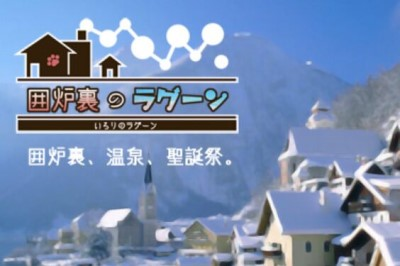
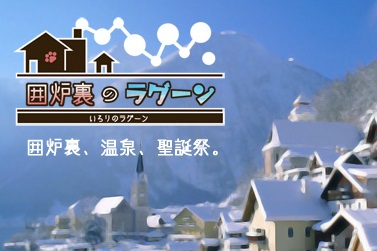
更新资源

diff --git a/zh-cn/authors/Oodaru.html b/zh-cn/authors/Oodaru.html
@@ -101,7 +101,7 @@
                     <p>村で空午を待っていたのは、『毒の泉』 の身もふたもない噂と、情欲を促す刺激的な毎日だった。</p>
                 </section>
                 <picture>
-                    <img src="../../resources/assets/Lagoon_Lounge/thumbnail.jpg" alt="" width="280" height="210" style="object-position: top" />
+                    <img src="../../resources/assets/Lagoon_Lounge/thumbnail.jpg" alt="" width="280" height="210" />
                 </picture>
             </article>
             <hr />
@@ -115,7 +115,7 @@
                     <p>身元を明かそうとしないライオンを康しお空午は、村の外れの小さな家で、思いもよらないトラブルに巻き込まれていく。</p>
                 </section>
                 <picture>
-                    <img src="../../resources/assets/Lagoon_Lounge_2/thumbnail.png" alt="" width="280" height="210" style="object-position: top" />
+                    <img src="../../resources/assets/Lagoon_Lounge_2/thumbnail.png" alt="" width="280" height="210" />
                 </picture>
             </article>
             <hr />
@@ -127,7 +127,7 @@
                     <p>みんなで朝食を食べようとラウンジに集まったところで、悠二郎が商店街の福引で特賞の温泉旅行が当たったことを発表します。雷も交えて5人で行くことになり、趣のある旅館で一緒に温泉に入ったり、成り行きで比べっこをすることになってしまったり。がっちりむっちりふかふかのガタイのいい獣人たちによるドキドキがいっぱいの温泉旅行、さらに春洲に帰ってきてからもたっぷりとお楽しみください。</p>
                 </section>
                 <picture>
-                    <img src="../../resources/assets/Lagoon_Lounge_3/thumbnail.jpg" alt="" width="280" height="210" style="object-position: top" />
+                    <img src="../../resources/assets/Lagoon_Lounge_3/thumbnail.jpg" alt="" width="280" height="210" />
                 </picture>
             </article>
             <hr />
@@ -140,7 +140,7 @@
                     <p>搬家后没多久，主角的朋友向他发出警告。「千万别靠近村里广场中的喷泉。」他很快就会发现，喷泉带来的是什么样的威胁。</p>
                 </section>
                 <picture>
-                    <img src="../../resources/assets/Lagoon_Lounge_The_Poisonous_Fountain/thumbnail.jpg" alt="" width="460" height="215" style="object-position: top" />
+                    <img src="../../resources/assets/Lagoon_Lounge_The_Poisonous_Fountain/thumbnail.jpg" alt="" width="384" height="216" />
                 </picture>
             </article>
         </main>
